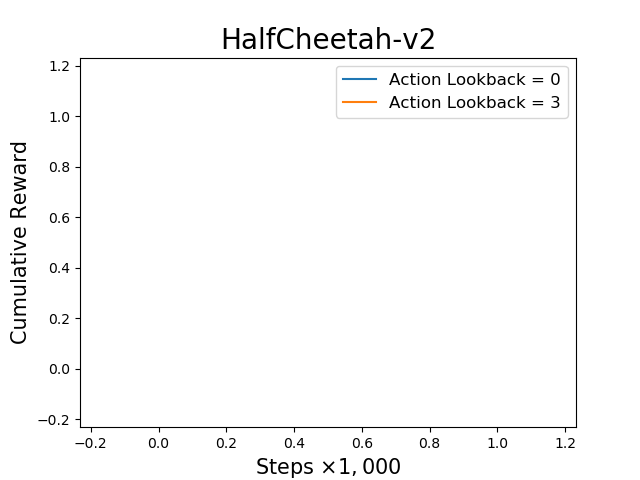
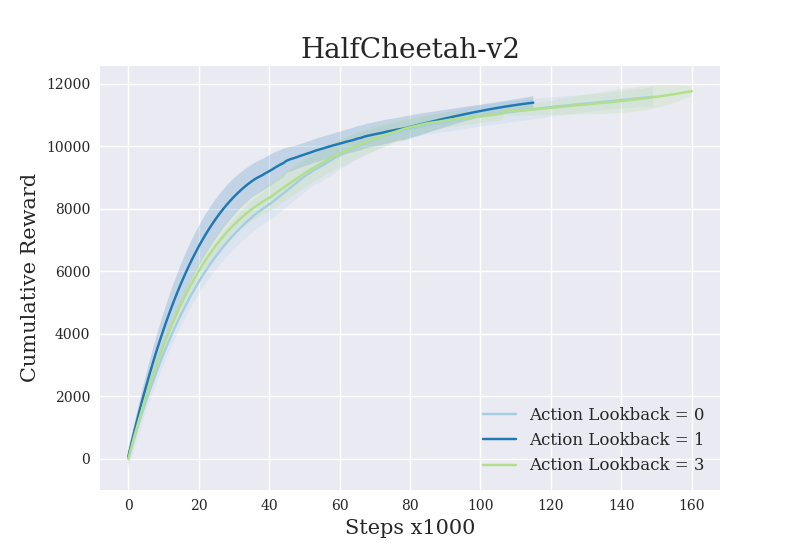
Fixed noise additions, more visualizations

diff --git a/arsac_plotting.py b/arsac_plotting.py
@@ -10,18 +10,17 @@ import matplotlib
 import matplotlib.pyplot as plt
 from matplotlib.animation import PillowWriter
 from matplotlib import rc
-#matplotlib.style.use('seaborn')
+matplotlib.style.use('seaborn')
 #rc('text', usetex=True)
-#rc('font', family='serif')
+rc('font', family='serif')
 import seaborn as sns
-#sns.set_palette('Paired')
+sns.set_palette('Paired')
 
 # comet
-api_key = ''
+api_key = 'tHDbEydFQGW7F1MWmIKlEvrly'
 workspace = 'aguerra'
 project_name = 'arsac'
 comet_api = API(api_key=api_key)
-
 
 # savgol filter
 SMOOTH = True
@@ -47,7 +46,7 @@ def get_visual_dict_comet(experiment_id, save_json_dir=None):
     # For each step where we do an eval episode
     steps = [str(i * 5000) for i in range(2, 200)]
     for step in steps:
-        print("Retrieving Data from step:", step)
+        #print("Retrieving Data from step:", step)
         # For every data entry we want to log
         for key in visual_dict.keys():
             # Specify the file name
@@ -81,18 +80,22 @@ def get_returns(experiment):
 
     Returns a numpy array [n_episodes,] of cumulative rewards (returns).
     """
-    asset_list = experiment.get_asset_list()
-    returns_asset_list = [a for a in asset_list if a['fileName'] == 'eval_returns']
-    if len(returns_asset_list) > 0:
-        returns_asset = returns_asset_list[0]
-        returns_json_str = experiment.get_asset(returns_asset['assetId'])
-        returns = json.loads(returns_json_str)
-        steps = np.arange(len(returns)) * 1e3
-    else:
-        returns_asset_list = experiment.get_metrics('cumulative_reward')
-        returns = [float(a['metricValue']) for a in returns_asset_list]
-        steps = [float(a['step']) for a in returns_asset_list]
-    return np.array(returns), np.array(steps) / 1e3
+    # asset_list = experiment.get_asset_list()
+    # returns_asset_list = [a for a in asset_list if '_reward' in a['fileName']]
+    # if len(returns_asset_list) > 0:
+    #     returns = []
+    #     steps = []
+    #     for asset in returns_asset_list:
+    #         data = experiment.get_asset(asset['assetId'], return_type='json')
+    #         returns.append(sum(data))
+    #         steps.append(float(asset['step']))
+    #     steps = np.array(steps)
+    #     print(steps[-5:])
+    # else:
+    returns_asset_list = experiment.get_metrics('train_Avg. Episode_Reward')
+    returns = [float(a['metricValue']) for a in returns_asset_list]
+    steps = np.array([float(a['step']) for a in returns_asset_list])
+    return np.array(returns), steps / 1e3
 
 
 def aggregate_returns(returns_list):
@@ -116,7 +119,6 @@ def aggregate_returns(returns_list):
 def plot_mean_std(mean, std, label):
     if SMOOTH:
         if len(mean) > 0:
-            print(mean)
             mean = savgol_filter(mean, WINDOW, POLY_DEG)
         if std is not None and len(std) > 0:
             std = savgol_filter(std, WINDOW, POLY_DEG)
@@ -146,10 +148,11 @@ def plot_rewards(env_exp_dict, save_folder):
             plt.plot(steps, savgol_filter(returns_list[0], WINDOW, POLY_DEG), label=inference_type)
     plt.legend(fontsize=12)
     #plt.xlabel(r'Steps $\times 1,000$', fontsize=15)
-    plt.xlabel('Steps')
+    plt.xlabel('Steps x1000', fontsize=15)
     plt.ylabel('Cumulative Reward', fontsize=15)
     plt.title(env, fontsize=20)
     plt.savefig(save_folder + 'rewards.png')
+    plt.clf()
 
 
 def plot_density_animation(visual_dict, save_folder):
@@ -163,18 +166,17 @@ def plot_density_animation(visual_dict, save_folder):
 
     camera = Camera(fig)
 
-    colors = ["blue", "orange", "green", "red", "purple", "brown"]
+    colors = ["blue", "orange", "green", "red", "purple", "brown", "deeppink", "darkgreen", "lime"]
 
-    # Plot formatting (done manually for this experiment)
-    ax[0].set_xlim(-6,6)
-    ax[1].set_xlim(0, 4)
-    ax[2].set_xlim(-1, 1)
-    ax[3].set_xlim(0, 1.5)
+    # Plot formatting (done manually for this Half Cheetah)
+    # ax[0].set_xlim(-6,6)
+    # ax[1].set_xlim(0, 4)
+    # ax[2].set_xlim(-1, 1)
+    # ax[3].set_xlim(0, 1.5)
 
     len_dict = len(visual_dict["base_mean"])
 
     for eval_ep_num in range(1, len_dict, 5):
-        print(eval_ep_num)
         for j, visual_key in enumerate(visual_dict.keys()):
             # Get the data
             eval_ep = visual_dict[visual_key][eval_ep_num]
@@ -196,13 +198,15 @@ def plot_density_animation(visual_dict, save_folder):
 
         # Only want 1 legend to avoid redundancy
         ax[1].legend(ax[1].get_lines(), [str(i) for i in range(len(eval_ep_t))], prop={'size': 10}, title="Output Dim")
-        ax[0].text(5, 0.86, "Eval Epsiode " + str(eval_ep_num), fontsize=12)
+        # TODO: Make this print relative to the frame
+        # ax[0].text(5, 0.86, "Eval Epsiode " + str(eval_ep_num), fontsize=12)
         # Grab the frame
         camera.snap()
 
     anim = camera.animate()
-    print(save_folder + 'density_animation.gif')
     anim.save(save_folder + 'density_animation.gif', dpi=100, writer=PillowWriter())
+    # After we have saved this, we wanna clear the figure
+    plt.clf()
 
 ######### API KEYS ##########
 exp_dict = {'Hopper-v2': {'Action Lookback = 0': ['bc98b4ca718d4a20b69ffe8ed1c777b4',
@@ -211,9 +215,9 @@ exp_dict = {'Hopper-v2': {'Action Lookback = 0': ['bc98b4ca718d4a20b69ffe8ed1c77
                                                   '2d48f44fab344aefb37ccf610c037d93',
                                                   'aeb80ba9fda44a8fad989017ee673149',
                                                   '000b0603e59b4eba9a2c2d89ec7413c3'],
-                          'Action Lookback = 1': ['',
-                                                  '',
-                                                  ''],
+                          'Action Lookback = 1': ['f7e4e156f5ee495985f77d15d62365e8',
+                                                  '2d78243f64974c888904609fc8a04198',
+                                                  '58a84fa3fb1b4112b7302f8f6759cd43'],
                           'Action Lookback = 3': ['0bfd50fbd267460fad93d5f84607d35d',
                                                   '2079085ac7e34ab99d429f2be1174cdb',
                                                   'a89026b4717046eea379fb7abe32c2f5']},
@@ -223,9 +227,9 @@ exp_dict = {'Hopper-v2': {'Action Lookback = 0': ['bc98b4ca718d4a20b69ffe8ed1c77
                                                     '83fe80214c9c4ee68babc2e7705a654a',
                                                     '0c5ac0bc0a214a599ed4a866e81829d1',
                                                     '1236a09e06ee4e61b919907ec2d5a3cd'],
-                            'Action Lookback = 1': ['',
-                                                    '',
-                                                    ''],
+                            'Action Lookback = 1': ['d99c0da3d97942a4b7f94f06f0f2bc9b',
+                                                    '2beea84556b3401da4da65675fd8e97d',
+                                                    'f68c47652b364650ad01b93456ed116c'],
                             'Action Lookback = 3': ['3bcc58d1e2644e5ebc8c847087064e4b',
                                                     '91b1865bcbeb43dbb2f7730363e00ab8',
                                                     'e557cf1ffa0d41a9a910606853ae2957']},
@@ -235,21 +239,21 @@ exp_dict = {'Hopper-v2': {'Action Lookback = 0': ['bc98b4ca718d4a20b69ffe8ed1c77
                                                        '0f98107d6fcb4607b9d0e6e48cb648f6',
                                                        'f9bf149914d34730b35be2c0171d010b',
                                                        '327149f8f2ec456b8d58e27dca9e48a7'],
-                               'Action Lookback = 1': ['',
-                                                       '',
-                                                       ''],
+                               'Action Lookback = 1': ['67d94f574c5647c9952e2df10a584e47',
+                                                       'e6149aedc01d4666be36180f3dd81cf8',
+                                                       '83abd7e4a63f48758df01541faaa6f1b'],
                                'Action Lookback = 3': ['5ab8c92e50614dc898d4e3a5f1f46604',
                                                        '5ca1185424a3442ebf8b6ace07244c8c',
                                                        '0c5e41aee72944f294760aab96c4b99c']},
-            'Ant-v2': {'Action Lookback = 0': ['',
-                                                       '',
-                                                       ''],
-                               'Action Lookback = 1': ['',
-                                                       '',
-                                                       ''],
-                               'Action Lookback = 3': ['',
-                                                       '',
-                                                       '']},
+            'Ant-v2': {'Action Lookback = 0': ['bd7e539e1a5c4809b2ad4f41d487dfc0',
+                                                       'fb71d7453ecb41beada21b934e90ce9e',
+                                                       '91e5f5481e3e4e07aec0b9806ced7816'],
+                               'Action Lookback = 1': ['99e30b7e9ed44e73a19ffc8e1e2c087a',
+                                                       '4873f25ec8ba4e7a9753a8cead77c270',
+                                                       'e18299ec599047409445a1e6e3502bda'],
+                               'Action Lookback = 3': ['7bc03d8b6c5c445a9fb973e76eea5566',
+                                                       '2e48164404a54bda9f7b5adf60baaa44',
+                                                       '14cd170d78da415ab7590ebc5e494d00']},
             'Humanoid-v2': {'Action Lookback = 0': ['',
                                                        '',
                                                        ''],
@@ -267,32 +271,33 @@ if __name__ == "__main__":
 
     # Specify the folder we want to save the visualizations to
     base_dir = "visualizations/"
-    env = 'HalfCheetah-v2'
-    env_exp_dict = exp_dict[env]
+    for env in exp_dict.keys():
+        env_exp_dict = exp_dict[env]
+        print("Visualizing ", env)
+        ######### Plotting the distributions ##########
+        #
+        # for inference_type in env_exp_dict:
+        #     print("  -", inference_type)
+        #     # For this, we will only plot a single experiment run to see how training proceeded.
+        #     experiment_id = env_exp_dict[inference_type][0]
+        #     if experiment_id == '':
+        #         continue
+        #     lb = inference_type[-1]
+        #     save_dir = base_dir + env + "/arsac" + lb + "/"  # Plain ARSAC algorithm, specified by lookback
+        #
+        #     # Create the directory if it does not already exist
+        #     Path(save_dir).mkdir(parents=True, exist_ok=True)
+        #
+        #     if isfile(save_dir + experiment_id + ".json"):
+        #         with open(save_dir + experiment_id + ".json") as f:
+        #             visual_dict = json.load(f)
+        #     else:
+        #         visual_dict = get_visual_dict_comet(experiment_id, save_json_dir=save_dir)
+        #
+        #     # Now we make the plots
+        #     plot_density_animation(visual_dict, save_dir)
 
-    ######### Plotting the distributions ##########
+        #########    Plotting the rewards    ##########
 
-    for inference_type in env_exp_dict:
-        # For this, we will only plot a single experiment run to see how training proceeded.
-        experiment_id = env_exp_dict[inference_type][0]
-        if experiment_id == '':
-            continue
-        lb = inference_type[-1]
-        save_dir = base_dir + env + "/arsac" + lb + "/"  # Plain ARSAC algorithm, specified by lookback
-
-        # Create the directory if it does not already exist
-        Path(save_dir).mkdir(parents=True, exist_ok=True)
-
-        if isfile(save_dir + experiment_id + ".json"):
-            with open(save_dir + experiment_id + ".json") as f:
-                visual_dict = json.load(f)
-        else:
-            visual_dict = get_visual_dict_comet(experiment_id, save_json_dir=save_dir)
-
-        # Now we make the plots
-        plot_density_animation(visual_dict, save_dir)
-
-    #########    Plotting the rewards    ##########
-
-    plot_rewards(env_exp_dict, base_dir + env + "/")
+        plot_rewards(env_exp_dict, base_dir + env + "/")
 

diff --git a/main.py b/main.py
@@ -99,7 +99,7 @@ with experiment.train():
         episode_reward = 0
         episode_steps = 0
         done = False
-        state = env.reset()
+        state = env.reset() + np.random.normal(0, 0.1, state_space_size) if args.add_state_noise else 0
         lookback = args.action_lookback
         # Reset the previous action, as our program factors this into account when taking future actions
         if lookback > 0:
@@ -115,8 +115,7 @@ with experiment.train():
             else:
 
                 # Sample action from policy, adding noise to state if we want to
-                state_noise = np.random.normal(0, 0.1, state_space_size) if args.add_state_noise else 0
-                action = agent.select_action(state + state_noise, prev_states, prev_actions)
+                action = agent.select_action(state, prev_states, prev_actions)
 
             if len(memory) > args.batch_size:
                 # Number of updates per step in environment
@@ -132,7 +131,10 @@ with experiment.train():
 
                     updates += 1
 
-            next_state, reward, done, _ = env.step(action) # Step
+            action_noise = np.random.normal(0, 0.1, state_space_size) if args.add_action_noise else 0
+            next_state, reward, done, _ = env.step(action + action_noise) # Step
+            # Add state noise if that parameter is true
+            next_state += np.random.normal(0, 0.1, state_space_size) if args.add_state_noise else 0
             episode_steps += 1
             total_numsteps += 1
             episode_reward += reward
@@ -161,7 +163,7 @@ with experiment.train():
                                      'base_mean': [], 'base_std': [], 'adj_scale': [], 'adj_shift': []}
 
                 for _ in range(episodes_eval):
-                    state_eval = env.reset()
+                    state_eval = env.reset() + np.random.normal(0, 0.1, state_space_size) if args.add_state_noise else 0
                     if lookback > 0:
                         prev_actions_eval = np.zeros(action_space_size * lookback)
                         prev_states_eval = np.zeros(state_space_size * lookback)
@@ -182,7 +184,10 @@ with experiment.train():
                         episode_eval_dict['qpos'].append(env.sim.get_state()[1].tolist()) # qpos
                         episode_eval_dict['qvel'].append(env.sim.get_state()[2].tolist()) # qvel
                         # Now we step forward in the environment by taking our action
-                        next_state_eval, reward_eval, done_eval, _ = env.step(action_eval)
+                        action_noise_eval = np.random.normal(0, 0.1, state_space_size) if args.add_action_noise else 0
+                        next_state_eval, reward_eval, done_eval, _ = env.step(action_eval + action_noise_eval)
+                        # Add state noise if that parameter is true
+                        next_state_eval += np.random.normal(0, 0.1, state_space_size) if args.add_state_noise else 0
                         # We have completed an evaluation step, now log it to the dictionary
                         episode_eval_dict['state'].append(state_eval.tolist())
                         episode_eval_dict['action'].append(action_eval.tolist())
